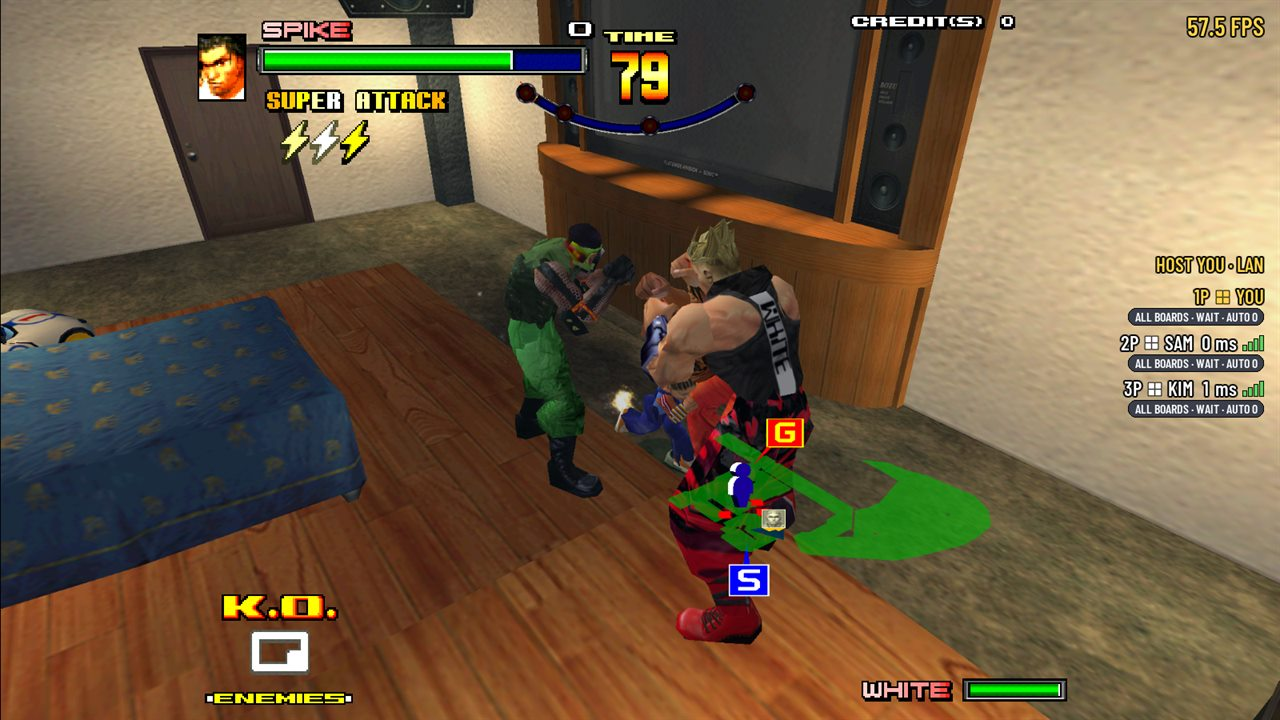
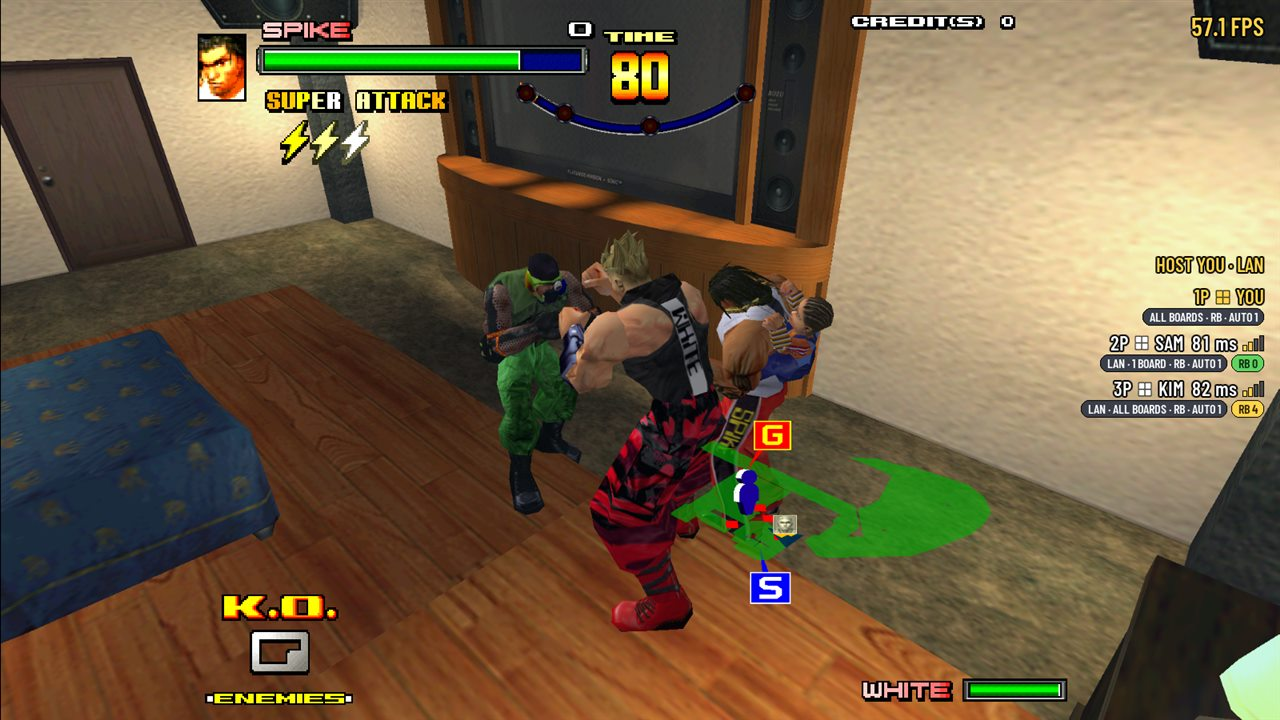
README: a network screenshot with both board modes and rollback in the seat list

diff --git a/README.md b/README.md
@@ -172,8 +172,10 @@ and only the players' inputs travel, so the game is the same on every screen.
 > it collects the logs we need (see [Reporting a problem](#reporting-a-problem)).
 
 <p align="center">
-  <img src="docs/images/network-play.jpg" alt="A three-player network game: the seat list with each player's connection" width="800">
-  <br><sub>Three players, one PC each: the seat list shows who's in the game and each one's connection</sub>
+  <img src="docs/images/network-play.jpg" alt="A three-player network game: the seat list with each player's connection and board mode" width="800">
+  <br><sub>Three players, one PC each, about 80 ms apart: the seat list on the right shows each player's connection and
+  how their PC runs the game (ALL BOARDS or 1 BOARD, RB: rollback), and for the others how often their presses were
+  guessed wrong here (RB 0, RB 4)</sub>
 </p>
 
 - **Host a game** (Esc > Network play): on the internet lobby, or only on your own network. You get a six-character room
